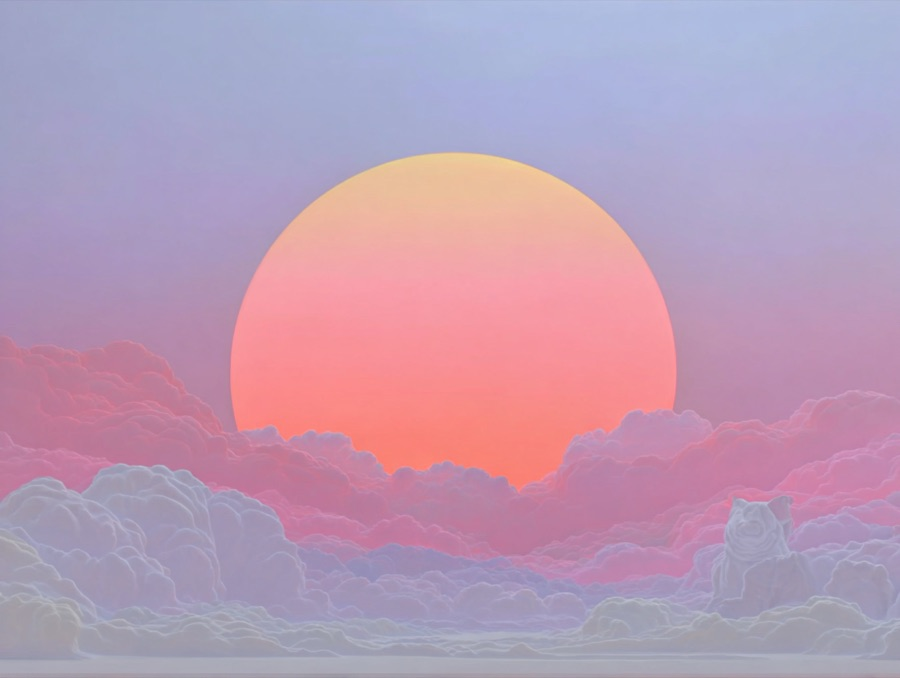
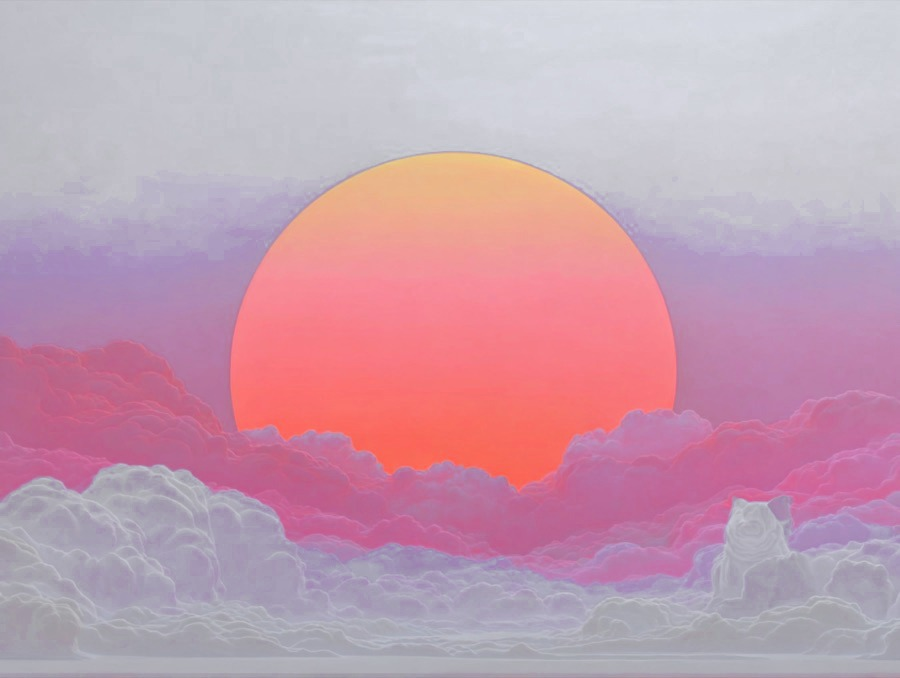
Today's Light: bake hue-selective sky desaturation into the image; soften CSS bloom

diff --git a/src/styles/app.css b/src/styles/app.css
@@ -568,30 +568,13 @@
   padding: 16px 20px;
   isolation: isolate; /* contain the blend layers to this card */
 }
-/* Layer 1 — a muted copy of the OPEN SKY only. The desaturation is confined to
-   the top corners (the empty space around the sun); the sun AND the clouds stay
-   fully saturated. Two masks are intersected:
-     1) a vertical fade that keeps just the top band and drops the clouds below
-     2) a radial that punches the sun out of the muted layer                  */
-.todays-light::before {
-  content: ""; position: absolute; inset: 0; z-index: 1; pointer-events: none;
-  background-image: url(/todays-light.jpg);
-  background-size: cover; background-position: center 45%;
-  filter: saturate(0.3) brightness(1.05) contrast(1.02);
-  -webkit-mask-image:
-    linear-gradient(#000 0%, #000 24%, transparent 44%),
-    radial-gradient(160px 142px at 49% 41%, transparent 0%, transparent 46%, #000 86%);
-  -webkit-mask-composite: source-in;
-  mask-image:
-    linear-gradient(#000 0%, #000 24%, transparent 44%),
-    radial-gradient(160px 142px at 49% 41%, transparent 0%, transparent 46%, #000 86%);
-  mask-composite: intersect;
-}
-/* Layer 2 — warm bloom over the sun so it glows and becomes the hero. */
+/* The sky desaturation is now baked into the image itself (hue-selective, so the
+   sun + clouds stay vivid). This layer just adds a soft warm bloom so the sun
+   reads as a light source. */
 .todays-light::after {
   content: ""; position: absolute; inset: 0; z-index: 1; pointer-events: none;
-  background: radial-gradient(124px 112px at 49% 43%,
-    rgba(255,196,122,0.55) 0%, rgba(255,152,112,0.30) 38%, transparent 66%);
+  background: radial-gradient(120px 108px at 49% 43%,
+    rgba(255,200,128,0.34) 0%, rgba(255,160,116,0.16) 42%, transparent 68%);
   mix-blend-mode: screen;
 }
 .tl-item { display: flex; flex-direction: column; gap: 2px; position: relative; z-index: 2; }